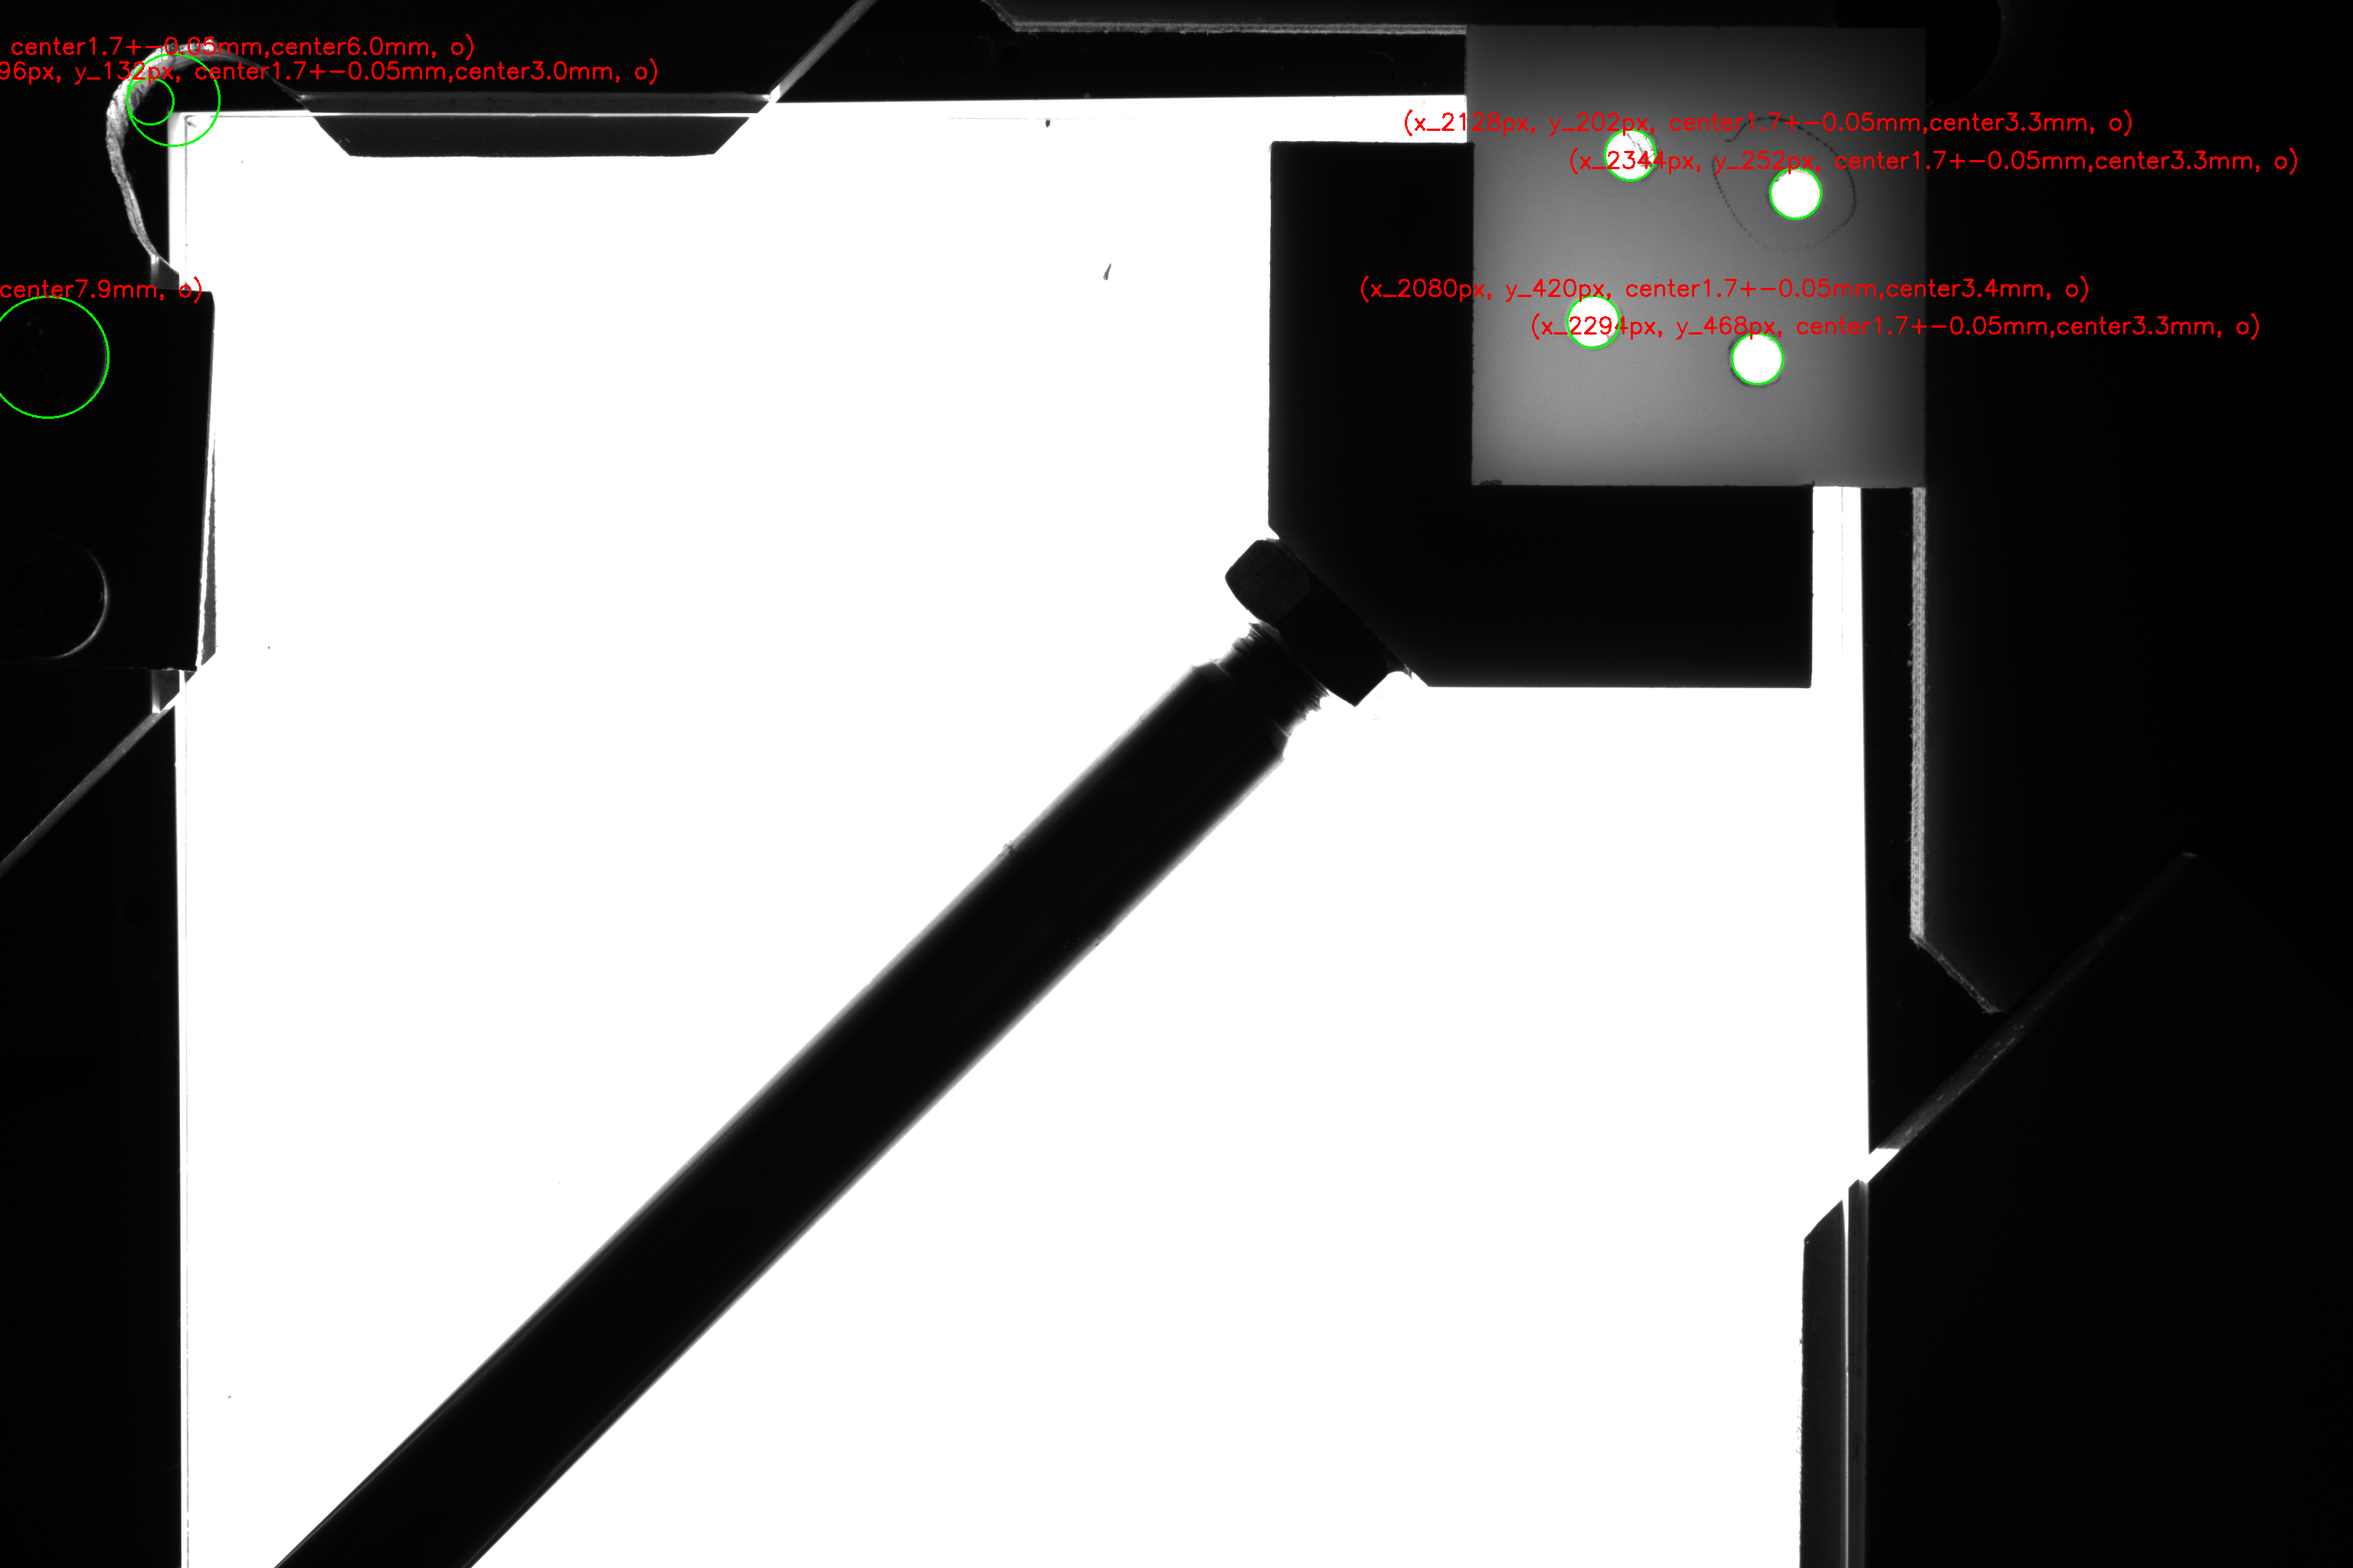
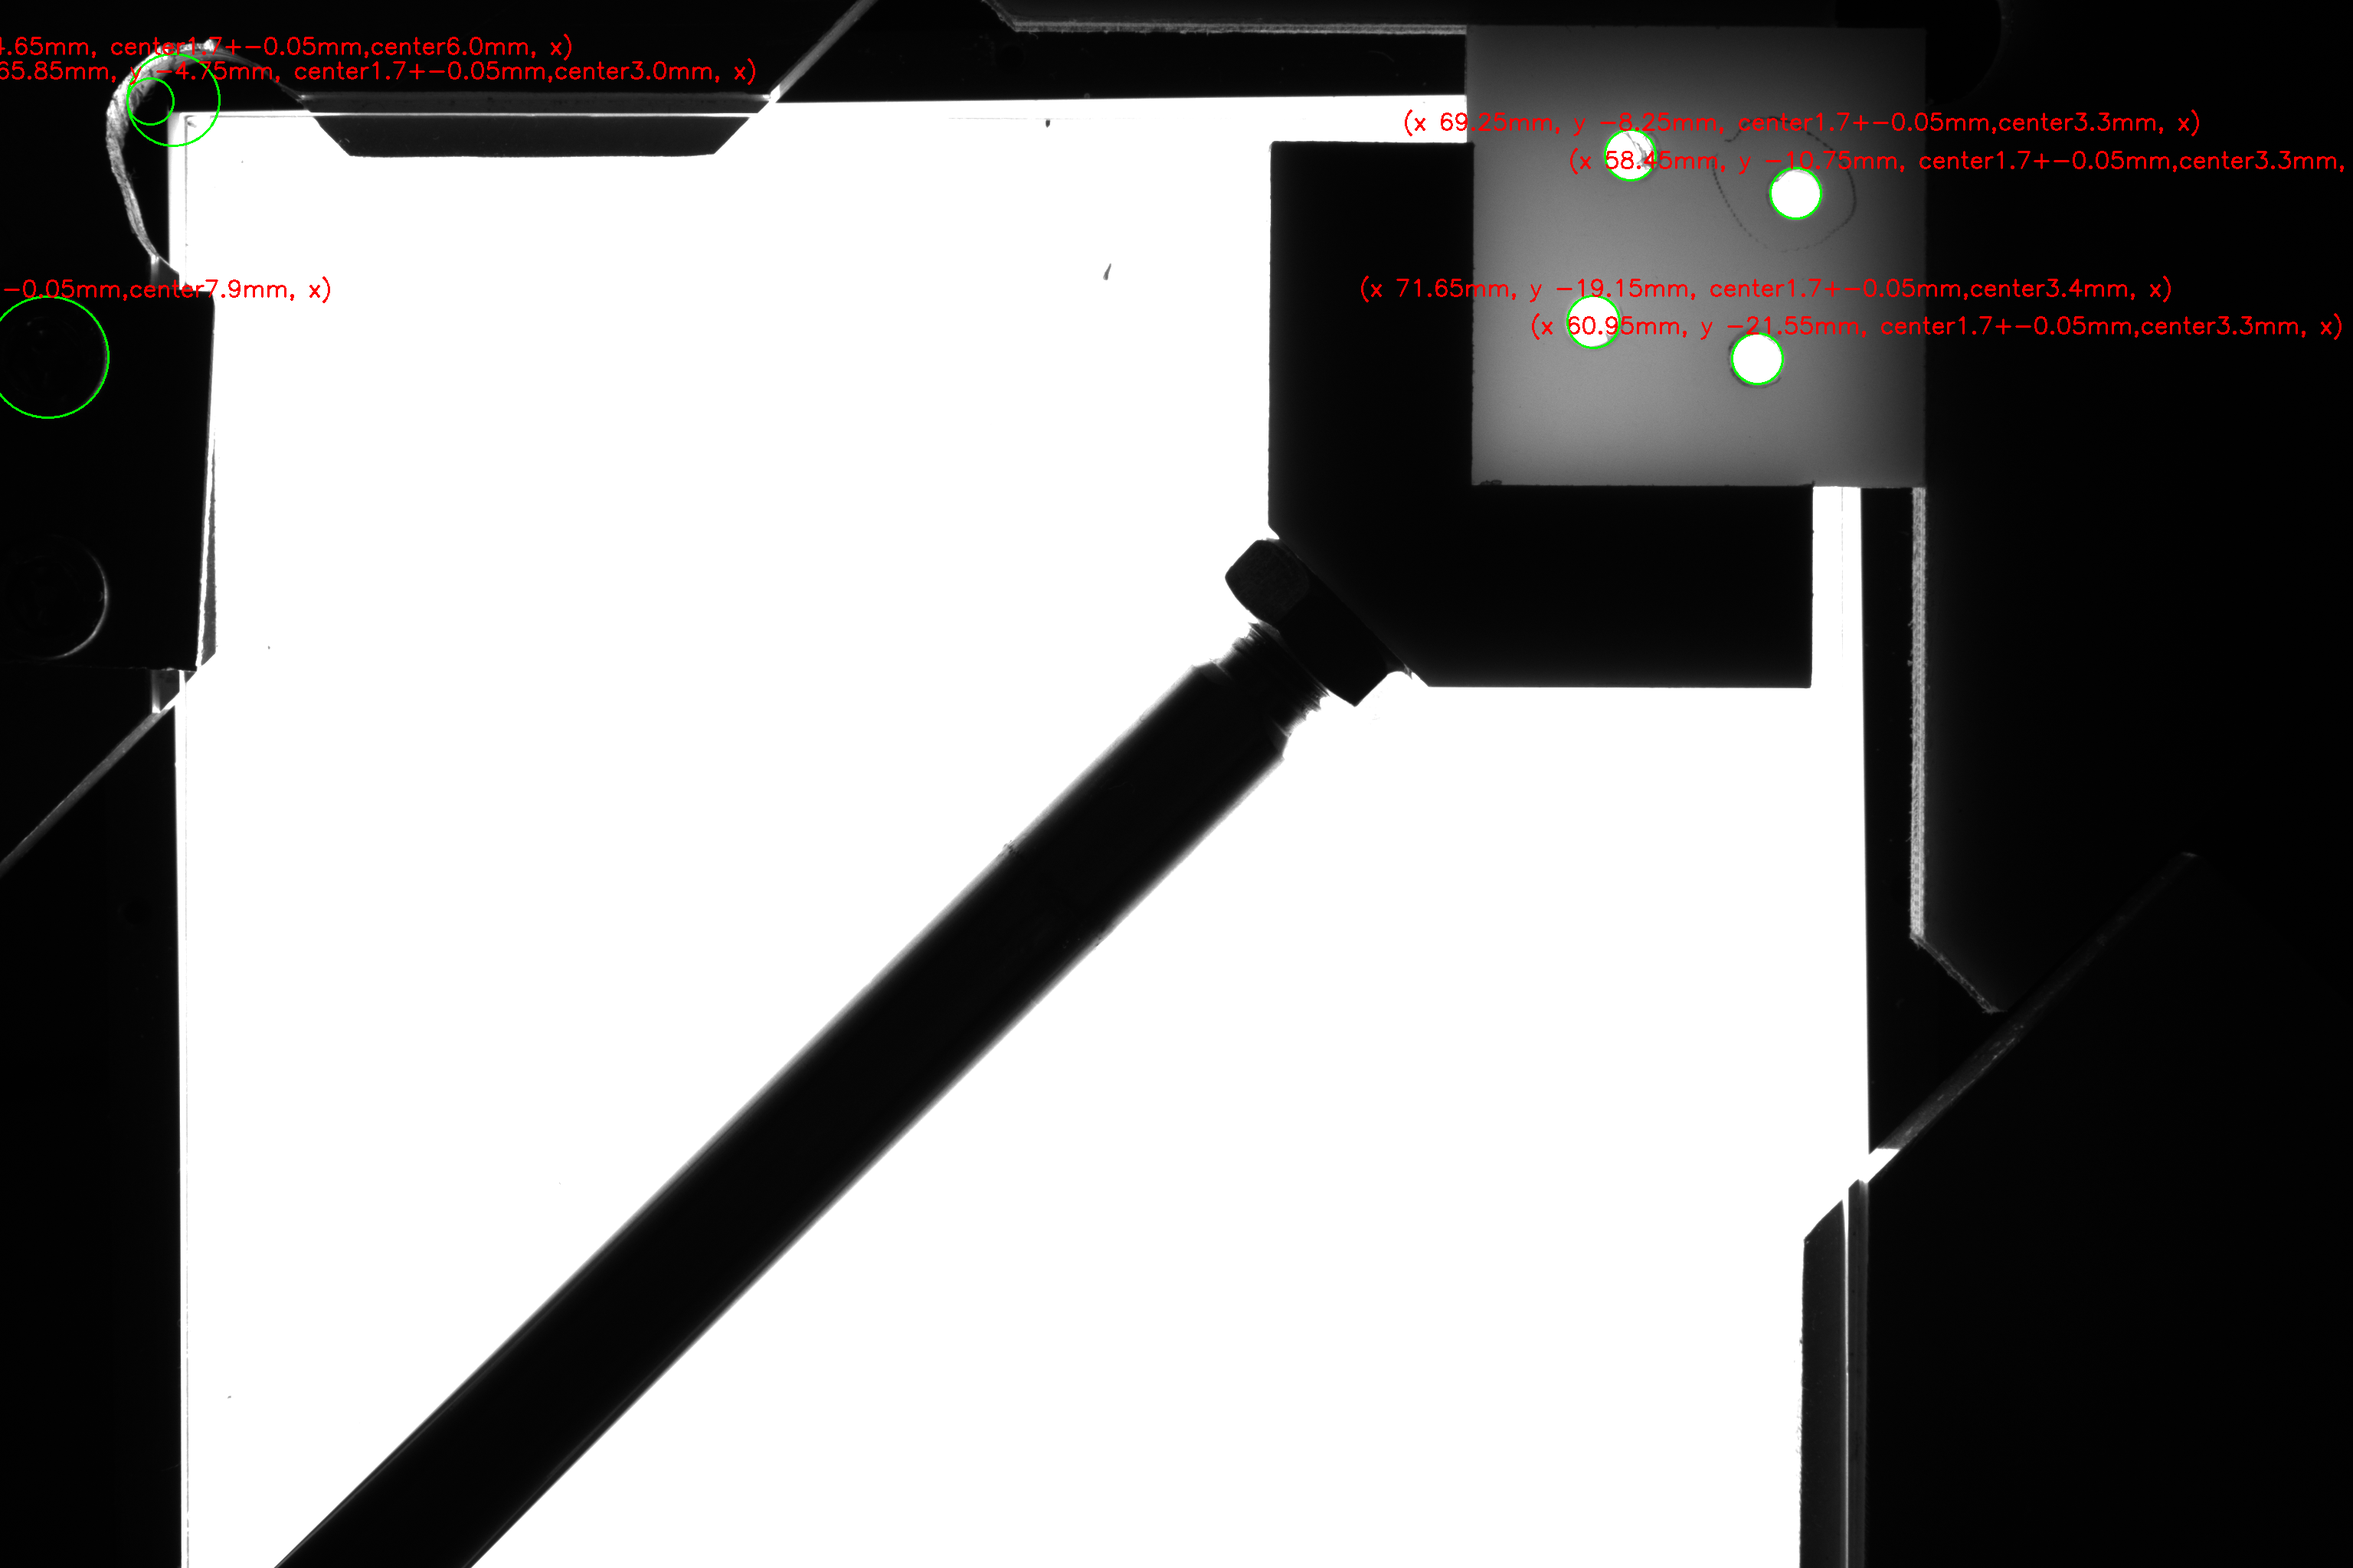
精度検査 テスト

diff --git a/ImageInspectionController/seidokensa.py b/ImageInspectionController/seidokensa.py
@@ -46,11 +46,14 @@ def detect_circles(image_path, min_radius=10, max_radius=100, param1=50, param2=
             if realvalue_radius < Tolerancemax and realvalue_radius > Tolerancemin:
                 gouhi="o"
             else:
-                gouhi="o"
+                gouhi="x"
             
+            x=round((3513-center[0])*0.05,2)
+            y=round((37-center[1])*0.05,2)
             # 座標と直径を表示
             realvalue_radius=round(realvalue_radius,2)
-            text = f"(x_{center[0]}px, y_{center[1]}px, center{Tolerance}+-0.05mm,center{realvalue_radius}mm, {gouhi})"
+            text = f"(x {x}mm, y {y}mm, center{Tolerance}+-0.05mm,center{realvalue_radius}mm, {gouhi})"
+
             cv2.putText(result_image, text, (i[0] - 9*radius, i[1] - radius), cv2.FONT_HERSHEY_SIMPLEX, 1, (0, 0, 255), 2)
 
         cv2.imwrite('result_image.png', result_image)
